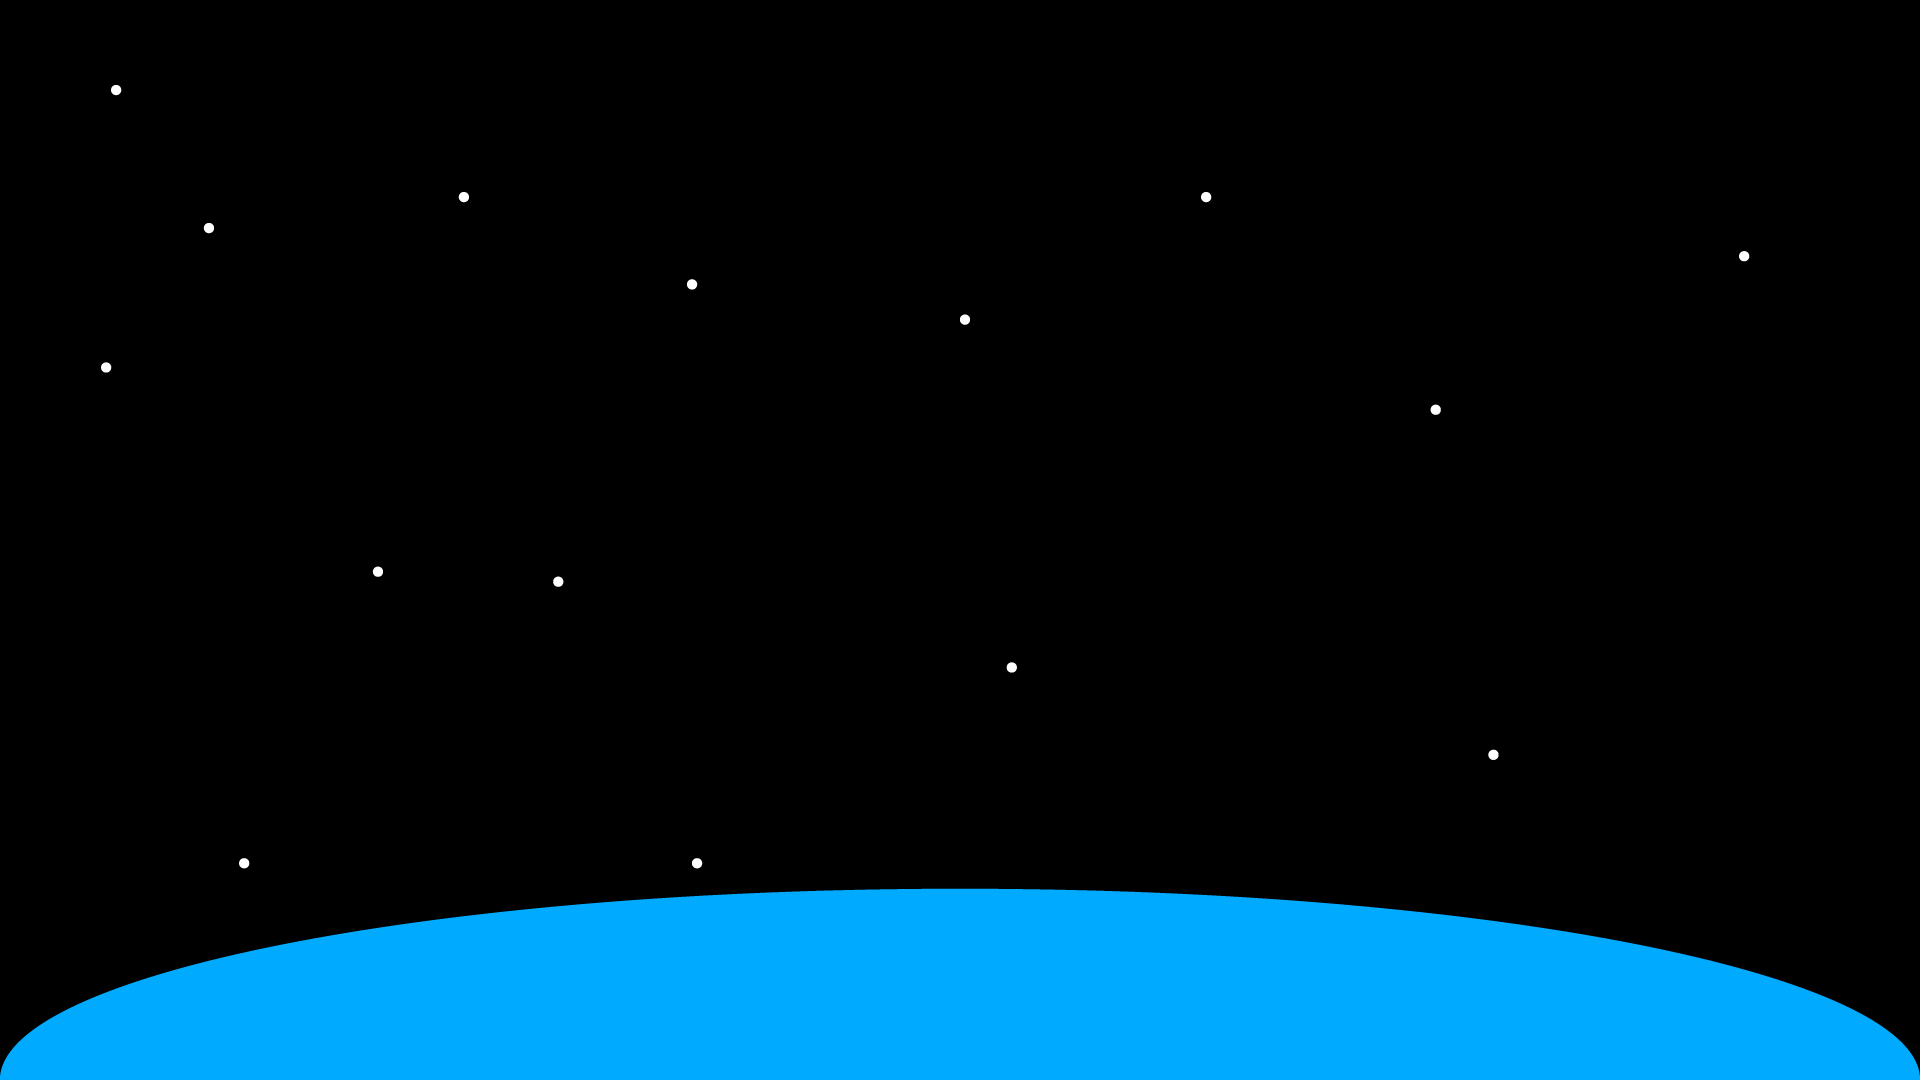
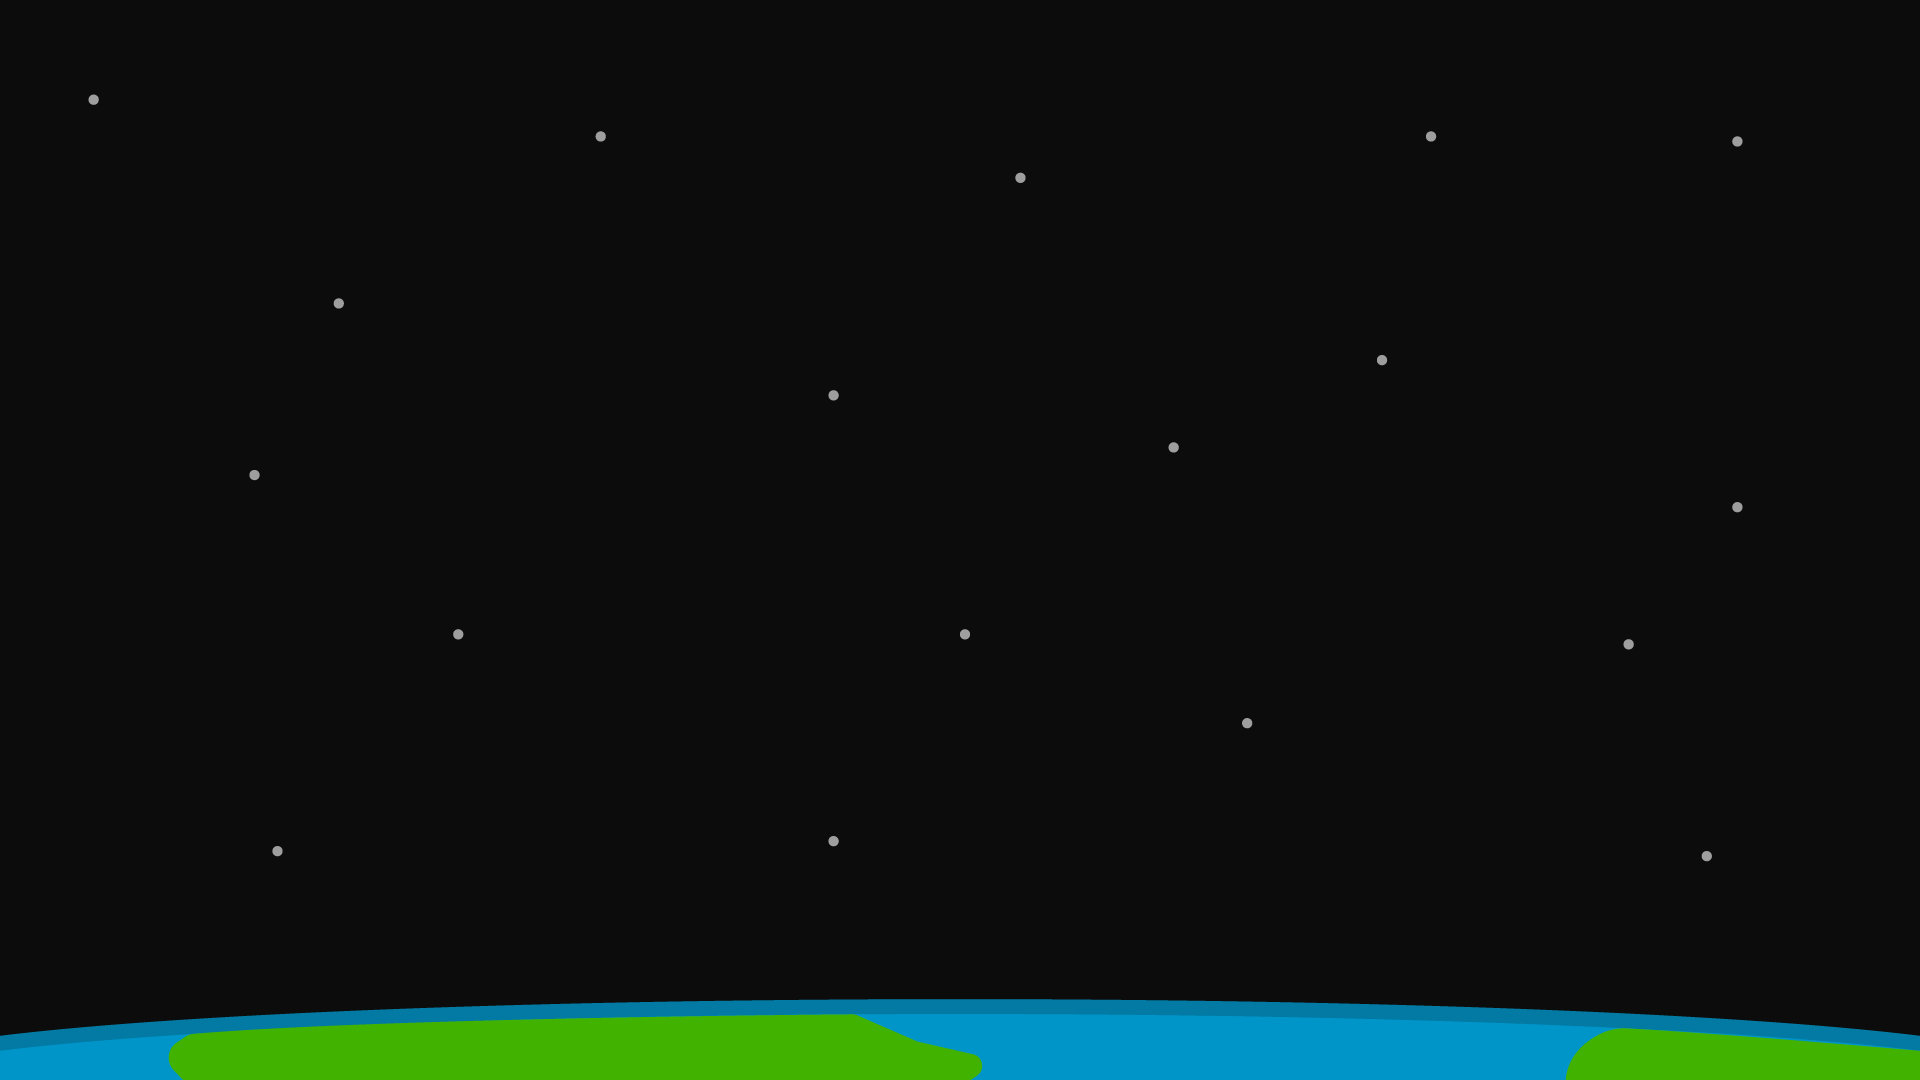
Level Backgrounds
Created backgrounds for level 1 and 2. Adjusted difficulty settings.

Changed region(s): [[0.0, 0.825, 1.0, 1.0]]

diff --git a/Assets/Project/Game/Obstacles/ObstacleSpawnerScript.cs b/Assets/Project/Game/Obstacles/ObstacleSpawnerScript.cs
@@ -104,6 +104,9 @@ public class ObstacleSpawnerScript : MonoBehaviour
                 obstacleScript.Initialize(this, playerScript, gameScript, baseSpeed, explosionEffect);
 
                 obstacleCount++;
+                
+                // TEMP
+                Debug.Log("Obstacle Count: " + obstacleCount.ToString());
             }
         }
 
